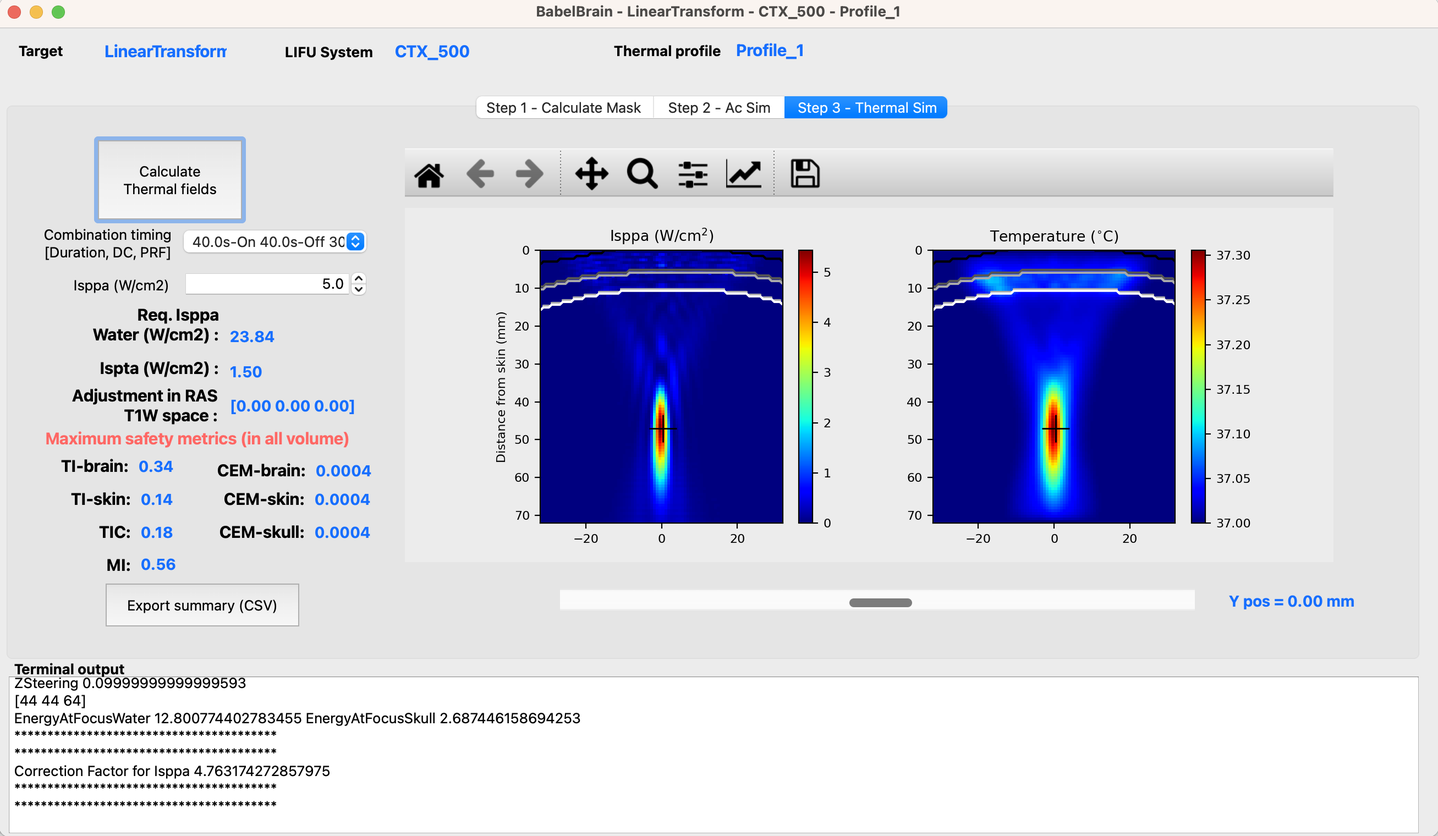
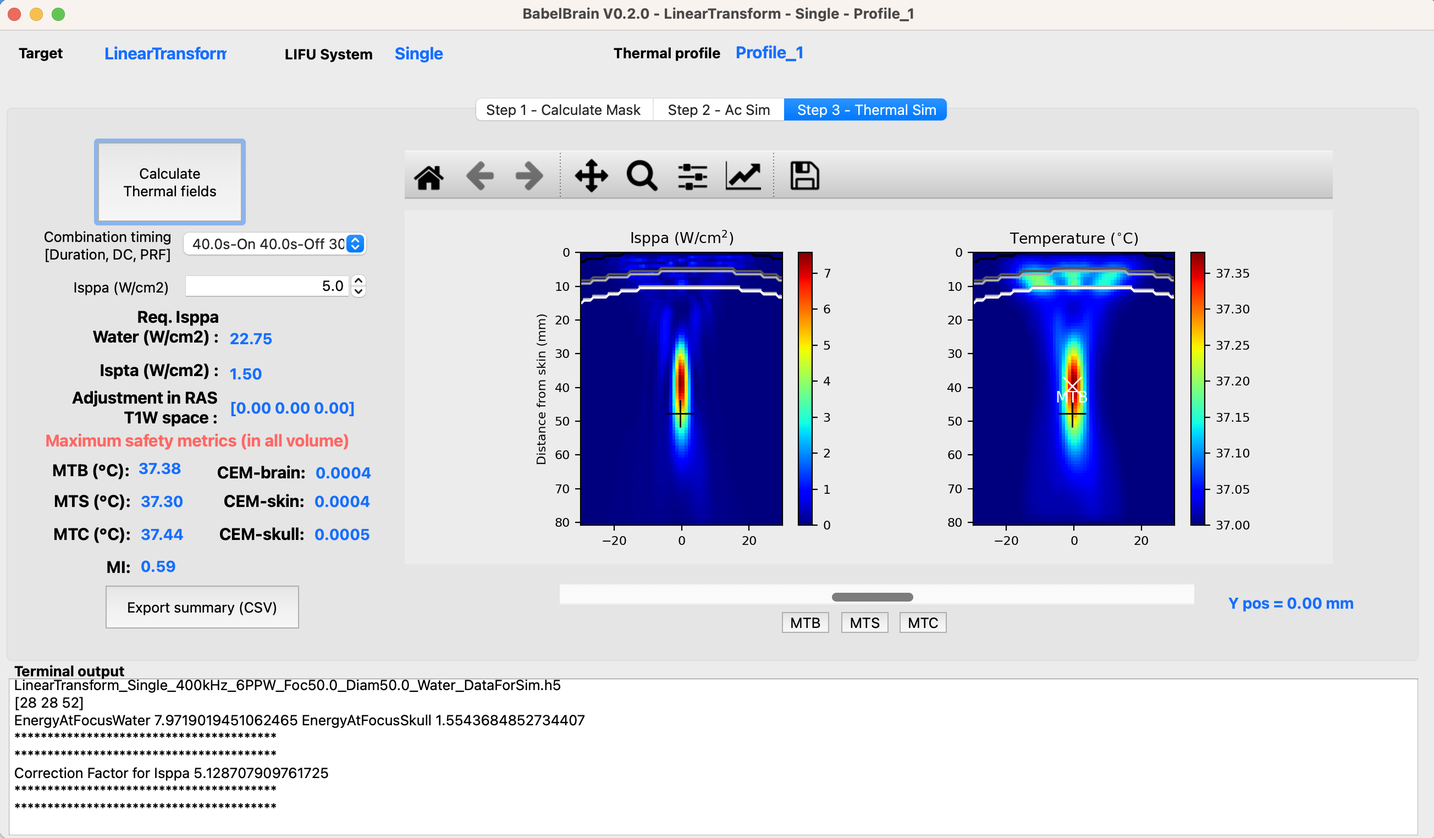
WIP

diff --git a/docs/docs/pipeline/pipeline.md b/docs/docs/pipeline/pipeline.md
@@ -1,4 +1,5 @@
-# Pipeline description
+Pipeline description
+-----
 BabelBrain takes 3D imaging data (MRI and, if available, CT) along with a trajectory indicating the location and orientation of an ultrasound transducer to target a location in the brain.
 
 <img src="Basics-1.png">
@@ -8,13 +9,13 @@ Currently, four types of transducers are supported:
 * **Single**. This is a simple focusing single-element transducer. The user can specify diameter, focal length and a frequency between 100 kHz and 700 kHz.
 * **H317**. This is a 128-element phased array with a focal length of 135 mm and F#=0.9. The device is capable to operate at 250 kHz and 700 kHz.
 * **CTX_500**. This is a device commercialized by the company NeuroFUS that has 4 ring elements, with a focal length of 63.2 mm and F# = 0.98, and operates at 500 kHz.
-* **H246**. This is a flat ring-type, flat device that has 2 ring elements, with a diameter of 33.6 mm and operates at 500 kHz. It offers some degree of focusing by using two transducer elements.
+* **H246**. This is a flat ring-type device that has 2 ring elements, with a diameter of 33.6 mm and operates at 500 kHz. It offers some degree of focusing by using two transducer elements.
 
 The specific capabilities of each transducer are considered during the simulations. 
 
-## Preliminary steps
+# 1 - Preliminary steps
 
-* **Mandatory**: Collect T1W and T2W imaging of a participant. Highly recommended to use 3D isotropic (1mm resolution) scans.
+* **Mandatory**: Collect T1W and T2W imaging of a participant. Highly recommended to use 3D isotropic (1 mm-resolution) scans.
 * **Mandatory**: Execute  SimNIBS 3.x `headreco` or SimNIBS 4.x `charm` processing tool:
 
     ```
@@ -27,11 +28,11 @@ The specific capabilities of each transducer are considered during the simulatio
     charm <ID> <Path to T1W Nifti file> <Path to T2W Nifti file> --forceqform
     ```
 
-    `<ID>` is a string for identification. A subdirectory `m2m_<ID>` will be created. Take note of this directory, this will be referred as the **SimNIBS output** directory in the following of this manual. The `--forceqform` parameter is required as often Nifti files are not 100% strict on how qform and sform matrices are saved. 
+    `<ID>` is a string for identification. A subdirectory `m2m_<ID>` will be created. Take note of this directory, this will be referred to as the **SimNIBS output** directory in the following of this manual. The `--forceqform` parameter is required as often Nifti files are not 100% strict on how qform and sform matrices are saved. 
 
 * **Mandatory**: Identify the coordinates of the target of focus ultrasound in T1W space. If you need to start in standardized space (e.g. MNI), there are many tools (FSL, SPM12, etc) that can be used to convert from standardized space to T1W space. 
 
-    For example, with FSL, you can create a simple csv file (`mni.csv`) file with the coordinates in MNI such as `-32.0 -20.0 65.0`. Then run the following commands
+    For example, with FSL, a simple csv file (`mni.csv`) can be created with the coordinates in MNI such as `-32.0 -20.0 65.0`. Then run the following commands
 
     `flirt -in <path to T1W nifti> -ref $FSLDIR/data/standard/MNI152_T1_1mm -omat anat2mni.xfm -out anat_norm`
 
@@ -43,14 +44,13 @@ The specific capabilities of each transducer are considered during the simulatio
 * *Optional*: CT scan of the participant. Depending on the study being conducted, counting with a CT scan improves the precision of the simulation. 
 * *Optional*:: ZTE scan of the participant. A pseudo-CT scan can be reconstructed using a Zero Echo Time (ZTE) MRI scan. Details on MRI scan parameters and methods for pseudo-CT reconstruction (using the "classical" approach) can be found in the work presented by [Miscouridou *et al.*](https://ieeexplore.ieee.org/document/9856605) (DOI: 10.1109/TUFFC.2022.3198522). The user needs only to provide the Nifti file of the ZTE scan. BabelBrain will do the transformation to pseudo-CT as detailed in Miscouridou *et al.* A Nifti file with the pseudo-CT will be generated.
 
-### Important information on using exclusively T1W and T2W imaging vs. including CT/ZTE scans
+## 1.a - Availability of CT/ZTE scans
 If no CT or ZTE scans are available, a mask representing the skull bone will be generated from the `headreco` or `charm` tools output. Be sure of inspecting the generated mask Nifti file to ensure the mask is correctly calculated. Our experience indicates that `charm` tool produces a better skull mask extraction. When using only T1W and T2W as inputs, BabelBrain uses a generic mask to represent the skull bone (including regions of trabecular and cortical bone). Average values of speed of sound and attenuation are assigned to these bone layers. Consult the appendix section for details on the values used.
 
 If a CT or ZTE scan is provided, a mapping of density, speed of sound and attenuation will be produced. Consult the appendix section for details on the mapping procedure.
 
-# Workflow
-Once imaging data is ready, the simulation for transcranial ultrasound is done in 2 main steps: Planning and simulation
-## Planning
+
+# 2 - Planning
 <img src="Pipeline-1.png" height=300px>
 
 The goal of the planning step is to produce a **trajectory** that provides the location where ultrasound is intended to be focused and the orientation of the transducer in T1W coordinate space. In practice, the trajectory is just an affine matrix applied to a "virtual" needle that describes the **location** and **orientation** where focused ultrasound is desired to be concentrated. The tip of the trajectory needs to be at the intended target. The position of the transducer will be relative to the tip location. The details using 3DSlicer can illustrate this.
@@ -58,7 +58,7 @@ The goal of the planning step is to produce a **trajectory** that provides the l
 #### Acoustic path STL helpers
 BabelBrain includes a series of complementary STL files representing the "acoustic" path. Each STL file includes a group of circular meshes combined with a target needle that represent the acoustic cross sections of a field produced with a transducer with F#=1.0 at different depths. As noted in the instructions below, these meshes help to verify a correct alignment with the skin.
 
-### Planning with 3DSlicer
+## 2.a - Planning with 3DSlicer
 1. Install the **SlicerIGT** extension in 3DSlicer (restart 3DSlicer if requested)
 2. Load T1W planning data
 
@@ -110,7 +110,7 @@ BabelBrain includes a series of complementary STL files representing the "acoust
 
     <img src="Planning-12.png" height=300px>
 
-12. Adjust the rotation of the model (it will rotate around the tip) using the **rotation** (LR, PA, IS) controls until finding a trajectory that has a clear path and mimics how the transducer will be placed. Tip: Adjust the trajectory to make it orthogonal to the skin surface in the inline and inline90 views; this recreates the condition of placing a transducer aligned relative to the skin.
+12. Adjust the trajectory path using the **rotation** (LR, PA, IS) controls until finding a trajectory that has a clear path and mimics how the transducer will be placed. Tip: Adjust the trajectory to make it orthogonal to the skin surface in the inline and inline90 views; this recreates the condition of placing a transducer aligned relative to the skin.
 
     <img src="Planning-13.png" height=400px>
 
@@ -118,8 +118,9 @@ BabelBrain includes a series of complementary STL files representing the "acoust
 
 13. Save the transformation in text format. Select "Save data" and select text as the file format. Take note of the path. Suggestion: Select a directory in the same path where T1W or SimNIBS output is located. 
 
-### Planning with Brainsight
-Brainsight is a proprietary software by Rogue Research (Montreal, Canada) for the planning and execution of non-invasive neuromodulation. This software has an existing feature that exports a trajectory that can be used in BabelBrain. The workflow to export a trajectory is very similar to 3DSlicer.
+## 2.b - Planning with Brainsight
+Alternatively, planning can also be performed with the proprietary software Brainsight made by Rogue Research (Montreal, Canada) for the planning and execution of non-invasive neuromodulation. This software has an existing feature that exports a trajectory that can be used in BabelBrain. The workflow to export a trajectory is very similar to 3DSlicer.
+
 1. Create a new "empty" or "SimNIBS" project; use SimNIBS only if you used SimNIBS 3.x with `headreco`.
 
 <img src="Planning-14.png" height=200px>
@@ -145,12 +146,12 @@ Brainsight is a proprietary software by Rogue Research (Montreal, Canada) for th
 
     <img src="Planning-19.png" height=250px>
 
-## Simulation with BabelBrain
+# 3 - Simulation with BabelBrain
 Now that planning is done, open BabelBrain either from the Applications menu in macOS if the DMG installer was used or with `python BabelBrain.py` as indicated in the installation section.
 
 <img src="Simulation-1.png" height=150px>
 
-### Input data
+## 3.a - Input data
 An input dialog will prompt the different input files required for the simulation.
 <img src="Simulation-2.png" height=250px>
 
@@ -193,24 +194,24 @@ An input dialog will prompt the different input files required for the simulatio
 6. Select the type of transducer to be used in simulations.
 
 7. Once all inputs are set, then click on "CONTINUE"
-### Domain generation
+## 3.b - Domain generation
 The diagram below shows flowchart describing the process for the domain generation.
 
-<img src="nsclc-V2.svg" height=600px>
+<img src="nsclc-V2.svg" height=700px>
 
 The first step after specifying input data is to create the simulation domain. The available operating frequencies will depend on the selected transducer. The second main input is the resolution of the simulation expressed in the number of points per wavelength (PPW). The minimum for fast estimation is 6 PPW, and 9 PPW to meet criteria de convergence when compared to other [numerical tools](https://asa.scitation.org/doi/10.1121/10.0013426).
  Depending on if CT or ZTE scans are available, options to fine-tune the domain generation will be available. For CT scans, the user can adjust the threshold for bone detection (set by default to 300 HU). For ZTE scans the user can specify the thresholds to select normalized ZTE signal (by default 0.1 and 0.6) to convert to pseudo-CT. Please consult Miscouridou *et al.*](https://ieeexplore.ieee.org/document/9856605) for details on the "classical" approach to convert from ZTE to pseudo-CT.
  The execution time in M1 Max processor can take from 1 minute of minutes up to 10 minutes depending on the resolution and availability of ZTE/CT scans.
  When initiating the calculations, a detailed log output will appear in the bottom region of the window. In case of any error during processing, a dialog message will prompt indicating to consult this window for more details. Once executed, orthogonal views of the domain will be shown. T1W scan is also shown to verify that the mask was correctly calculated. 
 
-<img src="Simulation-3.png" height=350px>
+<img src="Simulation-3.png" height=450px>
 
 Once executed, a Nifti file containing the mask describing the different tissue regions will be produced in the directory where the T1W Nifit file is located. It will have a file with the following structure:
 `<Name of target file>_<Frequency>_<PPW>_BabelViscoInput.nii.gz`, for example `LinearTransform_500kHz_6PPW_BabelViscoInput.nii.gz`. The mask will be in T1W space, facilitating its inspection as overlay with T1W data. The mask has values of 1 for skin, 2 for cortical bone, 3 for trabecular and 4 for brain tissue. A single voxel with a value of 5 indicates the location of the target. The raw data inside the Nifti file is organized in a 3D Cartesian volume that is aligned to the transducer acoustic axis. The Nifti affine matrix ensures the mask can be inspected in T1W space.
 
 If a CT or ZTE dataset is indicated as input, the skull mask will be created using this scan rather than the output of `headreco` or `charm`. Also, an overlay of the CT/pseudo-CT will be also shown for verification purposes. 
 
-<img src="Simulation-4.png" height=350px> 
+<img src="Simulation-4.png" height=450px> 
 
 
 Please note if a `<Name of target file>_<Frequency>_<PPW>_BabelViscoInput.nii.gz` file exists, the GUI will ask confirmation to recalculate the mask. Selecting "No" will load the previous mask. 
@@ -221,14 +222,14 @@ If using output from `charm` (which does not produces STL files), equivalent STL
 
 
 
-### Transcranial ultrasound simulation
+## 3.c - Transcranial ultrasound simulation
 The second tab in the GUI of BabelBrain shows the ultrasound simulation step.  The diagram below shows a flowchart of this step.
 
-<img src="nsclc2-V2.svg" height=500px>
+<img src="nsclc2-V2.svg" height=600px>
 
 The choices of this tab will depend on the selected transducer. Simulation results in this step are shown in normalized conditions. The final step (see below) later will show the results denormalized in function of the selected intensity at the target. Common to all transducers, the distance of the maximal depth beyond the target location is set to a user-configurable distance of 40 mm.
 
-#### CTX_500
+### 3.c.i - CTX_500
 For the CTX_500 transducer, the initial assumption is that this type of transducer will be placed in direct contact with the skin and that the focusing distance will be adjusted according to the desired target. 
 
 <img src="Simulation-5.png" height=350px>
@@ -237,44 +238,44 @@ The initial "TPO Distance" (an adjustable parameter in the CTX_500 device) is ca
 
 It is recommended to simulate with the default values to evaluate the degree of focus shift caused by the skull. Simulation should take a couple of minutes in a M1 Max system.
 
-<img src="Simulation-6.png" height=350px> 
+<img src="Simulation-6.png" height=450px> 
 
 The results window will show two orthogonal views of normalized acoustic intensity. The intensity in the skin and skull regions is masked out (it can be visualized later in those regions in step 3). In this step, the main goal is to ensure a correct spatial focusing on the target. In the example, a shift of 5 mm of the focal spot towards the transducer can be observed. This shift can be corrected by adding 5 mm in the TPO Distance input (in the example, we adjust to 52.5 mm). Also, there is a small lateral shift in the negative "Y" direction. This can be corrected with the "Mechanical" adjustment controls (in this example we adjust +1mm in the Y direction). Please note that in the simulation domain, X, Y and Z are not mapped to subject coordinates. However, at the end of the simulations, there will be a report in which direction in the T1W space this adjustment translates. 
 
 After doing the adjustments, the simulation can be repeated.
 
-<img src="Simulation-7.png" height=350px> 
+<img src="Simulation-7.png" height=450px> 
 
-#### H246
+### 3.c.ii - H246
 The H246 transducer has a similar operation as the CTX_500. The steps presented above apply similarly. As the H246 transducer has a much longer focal length, consider extending the maximal depth of simulations.
 
-<img src="Simulation-9.png" height=350px>
+<img src="Simulation-9.png" height=450px>
 
 
-#### H317
+### 3.c.iii - H317
 The H317 is a large transducer that uses a coupling cone that is in contact with the skin. The user interface shows small differences compared to CTX_500 and H246. There is a parameter for the `Distance cone to Focus` that depends on the acoustic cone used for coupling. Because this transducer has 128 elements, the user interface shows also the option to perform electronic refocusing.
  
-<img src="Simulation-10.png" height=350px>
+<img src="Simulation-10.png" height=450px>
 
-#### Single
+### 3.c.iv - Single
 The "Single" transducer is a generic device with a configurable diameter and focal length. Because this is a more general-purpose device, it is not assumed that the transducer is in direct contact with the skin. The transducer is always initially centered at the target, which can make that there could be some space between the transducer out plane and the skin. The user can adjust the mechanical distance on the Z axis until the point the out plane of the transducer reaches the skin.
  
-<img src="Simulation-11.png" height=350px>
+<img src="Simulation-11.png" height=450px>
 
-### Thermal simulation
+## 3.d - Thermal simulation
 The third tab in the GUI of BabelBrain shows the thermal simulation step.  The diagram below shows a flowchart of this step.
 
 <img src="nsclc3-V2.svg" height=250px>
 
 The thermal simulation solves the Bio-heat thermal equation (BHTE) for all the combinations of duty cycle, timing and ultrasound exposure indicated in the thermal profile definition file. 
  
-<img src="Simulation-12.png" height=350px>
+<img src="Simulation-12.png" height=450px>
 
-The selection of spatial-peak pulse-average intensity ($I_{\text{SPPA}}$) indicates the desired intensity at the target. The spatial-peak time-average intensity ($I_{\text{SPTA}}$) is calculated based on the selected timing conditions.  Based on the selections of timing and desired $I_{\text{SPPA}}$ in tissue, the $I_{\text{SPPA}}$ in water conditions is calculated after taking into account all the losses. Thermal safety parameters (thermal indices and thermal doses) in the skin, skull bone and brain tissue are calculated at the locations showing the highest temperature elevation in the whole 3D volume. 
+The selection of spatial-peak pulse-average intensity ($I_{\text{SPPA}}$) indicates the desired intensity at the target. The spatial-peak time-average intensity ($I_{\text{SPTA}}$) is calculated based on the selected timing conditions.  Based on the selections of timing and desired $I_{\text{SPPA}}$ in tissue, the $I_{\text{SPPA}}$ in water conditions is calculated after taking into account all the losses. Thermal safety parameters (maximal temperature and thermal doses) in the skin, skull bone and brain tissue are calculated at the locations showing the highest temperature elevation in the whole 3D volume. 
 
 The `Export summary (CSV)` action exports the input data paths and user selections used for the simulations. It also includes a table of $I_{\text{SPPA}}$ in water conditions and safety metrics in function of the desired $I_{\text{SPPA}}$ in tissue. Below there is an example of the exported data.
 
-| Isppa | IsppaWater | MI   | Ispta | TI   | TIS  | TIC  | CEMBrain    | CEMSkin     | CEMSkull    |
+| Isppa | IsppaWater | MI   | Ispta | MTB  | MTS  | MTC  | CEMBrain    | CEMSkin     | CEMSkull    |
 |-------|------------|------|-------|------|------|------|-------------|-------------|-------------|
 | 0.5   | 2.38       | 0.18 | 0.15  | 0.03 | 0.01 | 0.02 | 0.00033419  | 0.000329626 | 0.00033046  |
 | 1     | 4.77       | 0.25 | 0.3   | 0.07 | 0.03 | 0.04 | 0.000343142 | 0.000333787 | 0.000335482 |
@@ -283,3 +284,6 @@ The `Export summary (CSV)` action exports the input data paths and user selectio
 | 2.5   | 11.92      | 0.39 | 0.75  | 0.17 | 0.07 | 0.09 | 0.000371807 | 0.000346625 | 0.000351062 |
 | 3     | 14.31      | 0.43 | 0.9   | 0.20 | 0.09 | 0.11 | 0.000382002 | 0.000351024 | 0.000356431 |
 | ...    | ...     | ...  | ...    | ...  | ...  | ...  |...  | ...  | ...  |
+
+# 4 - Visualization of results
+Multiple files are generated

diff --git a/README.md b/README.md
@@ -9,74 +9,14 @@ samuel.pichardo@ucalgary.ca
 www.neurofus.ca
 
 **GUI application for the modeling of transcranial ultrasound for neuromodulation applications**
-BabelBrain is a research software application designed to work in tandem with neuronavigation software to perform focused ultrasound research. BabelBrain uses extensively [BabelViscoFDTD](https://github.com/ProteusMRIgHIFU/BabelViscoFDTD) for calculations. BabelViscoFDTD is optimized to run in multiple GPU backends (Metal, OpenCL and CUDA). In its initial inception, BabelViscoFDTD is focused for MacOS systems based on Apple ARM64 processors. However, BabelViscoFDTD can run in any system (Mac, Linux, Windows) that has a decent GPU from NVidia or AMD. 
+
+<img src="intro.png">
+
+<img src="Target-demo.png">
+
+BabelBrain is a frontend application for research purposes only in the study of applications of transcranial focused ultrasound. BabelBrain calculates the transmitted acoustic field in the brain, taking into account the distortion effects caused by the skull barrier. BabelBrain also calculates the thermal effects that a given ultrasound regime, which is regulated mainly by the total duration of ultrasound exposure, the duty cycle of ultrasound use and the peak acoustic intensity,
 
 # Disclaimer
 This software is provided "as is" and it is intended exclusively for research purposes.
 
-## Licensing
-BSD 3-Clause License
 
-Copyright (c) 2022, Samuel Pichardo
-All rights reserved.
-
-Redistribution and use in source and binary forms, with or without
-modification, are permitted provided that the following conditions are met:
-
-1. Redistributions of source code must retain the above copyright notice, this
-   list of conditions and the following disclaimer.
-
-2. Redistributions in binary form must reproduce the above copyright notice,
-   this list of conditions and the following disclaimer in the documentation
-   and/or other materials provided with the distribution.
-
-3. Neither the name of the copyright holder nor the names of its
-   contributors may be used to endorse or promote products derived from
-   this software without specific prior written permission.
-
-THIS SOFTWARE IS PROVIDED BY THE COPYRIGHT HOLDERS AND CONTRIBUTORS "AS IS"
-AND ANY EXPRESS OR IMPLIED WARRANTIES, INCLUDING, BUT NOT LIMITED TO, THE
-IMPLIED WARRANTIES OF MERCHANTABILITY AND FITNESS FOR A PARTICULAR PURPOSE ARE
-DISCLAIMED. IN NO EVENT SHALL THE COPYRIGHT HOLDER OR CONTRIBUTORS BE LIABLE
-FOR ANY DIRECT, INDIRECT, INCIDENTAL, SPECIAL, EXEMPLARY, OR CONSEQUENTIAL
-DAMAGES (INCLUDING, BUT NOT LIMITED TO, PROCUREMENT OF SUBSTITUTE GOODS OR
-SERVICES; LOSS OF USE, DATA, OR PROFITS; OR BUSINESS INTERRUPTION) HOWEVER
-CAUSED AND ON ANY THEORY OF LIABILITY, WHETHER IN CONTRACT, STRICT LIABILITY,
-OR TORT (INCLUDING NEGLIGENCE OR OTHERWISE) ARISING IN ANY WAY OUT OF THE USE
-OF THIS SOFTWARE, EVEN IF ADVISED OF THE POSSIBILITY OF SUCH DAMAGE.
-
-# Standalone application
-Ready to use applications (no need of Python installation) for MacOS are available in the Releases section. Download, open and drag "BabelBrain" into the Applications folder. The first time you will use you will be prompted  to authorize to run and to access directories. You may also need to authorize in the Security settings of MacOS.
-
-# Manual Installation for Development 
-If you prefer to run the code in a Python environment, the requirements are roughly a clean Python 3.9 environment and healthy XCode installation. Consult [BabelViscoFDTD](https://github.com/ProteusMRIgHIFU/BabelViscoFDTD) for details what is needed for the FDTD solvers
-# Requirements
-* Python 3.9. Anaconda/miniconda is recommende. - if running in Apple new ARM64 processors (M1, M1 Max, etc.), be sure of using a native ARM64 version. Consult [BabelViscoFDTD](https://github.com/ProteusMRIgHIFU/BabelViscoFDTD) for further details.
-* [Blender](www.blender.org)
-* [FSL](https://fsl.fmrib.ox.ac.uk/fsl/fslwiki) 
-
-
-Be sure FSL init scripts are properly activated in your .bash_profile or .zsh_profile.
-
-## Recommended settings
-Create first and activate an new environment with some basics libraries from Conda
-
-  `conda create --name babel python=3.9.13 numpy=1.23.3 scipy=1.9.1 matplotlib=3.6.0`
-
-  `activate babel`
-
-Install dependencies with 
-
-`pip install -r requirements.txt`
-
-## Running
-If running from the Github source code, just change to the BabelBrain directory and run
-
-`python BabelBrain.py`
-
-## Building standalone application
-A Pyinstaller specification file is ready for use. To build the MacOS application, just change to the BabelBrain directory and run
-
-`pyinstaller BabelBrain.spec`
-
-A new application ready to use will be created at `BabelBrain/BabelBrain/dist/BabelBrain.app`

diff --git a/docs/docs/installation.md b/docs/docs/installation.md
@@ -1,5 +1,5 @@
 # Standalone application
-Ready-to-use applications (no need for Python installation) for macOS are available in the Releases section. Download the installer and drag "BabelBrain" into the Applications folder.
+A ready-to-use application (no need for Python installation) for macOS is available in the [Releases](https://github.com/ProteusMRIgHIFU/BabelBrain/releases) section. Download the installer and drag "BabelBrain" into the Applications folder.
 
 <img src="install1.png" height=300px>
 
@@ -18,18 +18,20 @@ BabelBrain supports GPUs enabled via CUDA, OpenCL or Metal. High-end GPUs (12 GP
 [FSL](https://fsl.fmrib.ox.ac.uk/fsl/fslwiki)'s flirt tool must be installed and FSL's init scripts must be activated in the .bash_profile or .zsh_profile.
 
 ### Blender
-[blender](https://www.blender.org) is required for constructive solid geometry operations.
+[Blender](https://www.blender.org) is required for constructive solid geometry operations. Install with default options.
 
 ### SimNIBS
 While BabelBrain does not invoke directly SimNIBS tools, BabelBrain depends on the output generated by SimNIBS 3.x `headreco` or SimNIBS 4.x `charm` processing tools. Consult the [Releases](https://github.com/simnibs/simnibs/releases) section in SimNIBS for installation options. We recommended using SimNIBS 4.x `charm` for better results.
 
 ### Navigation-planning software
-While not strictly required, it is highly recommended to use planning software to establish the target localization and orientation, called **trajectory** in the following of this documentation, of the ultrasound transducer for the simulation of transcranial ultrasound. The trajectory is just a transformation matrix in the T1W space that represents the translation-rotation of a vector describing the path of ultrasound. BabelBrain can import trajectories defined in proprietary software (Rogue Research's Brainsight) or open-source visualization software ([3DSlicer](https://www.slicer.org/)). Instructions are detailed in the pipeline section of this documentation. 
+While not strictly required, it is highly recommended to use planning software to establish the target localization and orientation, called **trajectory** in the following of this documentation, of the ultrasound transducer for the simulation of transcranial ultrasound. The trajectory is just a transformation matrix in the T1W space that represents the translation-rotation of a vector describing the target and direction of ultrasound. BabelBrain can import trajectories defined in proprietary software (Rogue Research's Brainsight) or open-source visualization software ([3DSlicer](https://www.slicer.org/)). Instructions are detailed in the pipeline section of this documentation. 
 
 ## Manual Installation 
 Clone the [BabelBrain](https://github.com/ProteusMRIgHIFU/BabelBrain/) repository. The code can be run in a Python environment (in Linux, for example), the requirements are roughly a clean Python 3.9 or 3.10 environment and a healthy XCode installation with command line tools installed in MacOS or an LTS Ubuntu installation such as 20.04. 
 
-* Python 3.9/3.10. Anaconda/miniconda is recommended. - if running in Apple new ARM64 processors (M1, M1 Max, etc.), be sure of using a native ARM64 version. Several YAML conda environment files are in the main repository of [BabelBrain] https://github.com/ProteusMRIgHIFU/BabelBrain. 
+* Python 3.9/3.10. Anaconda/miniconda is recommended. - if running in Apple new ARM64 processors (M1, M1 Max, etc.), be sure of using a native ARM64 version. Several YAML conda environment files are in the main repository of [BabelBrain](https://github.com/ProteusMRIgHIFU/BabelBrain). 
+
+
 
 *Note: BabelBrain uses `antspyx`, which can take a longtime to compile if a wheel is not available*.
 
